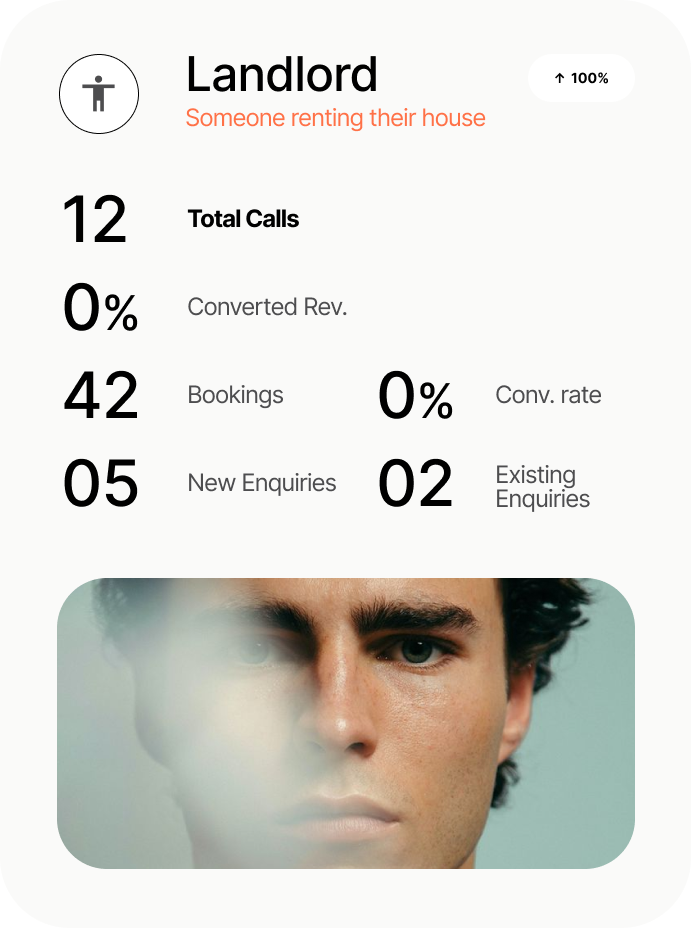
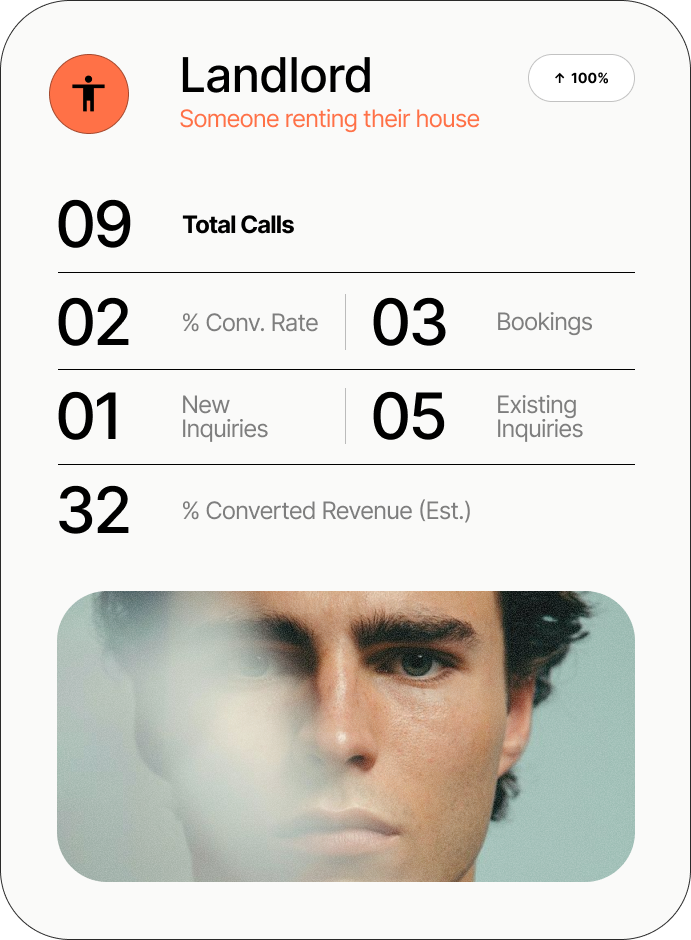
updates

diff --git a/index.html b/index.html
@@ -114,46 +114,40 @@
               <!-- LEFT column: row-1 (imgs 1,2,3) + row-2 (imgs 4,5) -->
               <div class="left">
 
-                <div class="row-1">
+                <div class="row-top">
                   <div class="sk-hero-1-db-img-single-border">
                     <div class="sk-hero-1-db-img-single img-1">
-                      <img src="images/call-gr.png" alt="Dashboard screenshot 1">
+                      <img src="images/call-big.png" alt="Dashboard screenshot 1">
                     </div>
                   </div>
+                </div>
 
+                <div class="row-1">
                   <div class="sk-hero-1-db-img-single-border">
                     <div class="sk-hero-1-db-img-single img-4">
-                      <img src="images/landlord.png" alt="Dashboard screenshot 4">
+                      <img src="images/landlord-new.png" alt="Dashboard screenshot 4">
                     </div>
                   </div>
-
                 </div>
+
                 <div class="row-2">
-
-                  <div class="sk-hero-1-db-img-single-border">
-                    <div class="sk-hero-1-db-img-single img-2">
-                      <img src="images/key.png" alt="Dashboard screenshot 2">
-                    </div>
-                  </div>
-
                   <div class="sk-hero-1-db-img-single-border">
                     <div class="sk-hero-1-db-img-single img-5">
-                      <img src="images/tenant.png" alt="Dashboard screenshot 5">
+                      <img src="images/tenant-new.png" alt="Dashboard screenshot 5">
                     </div>
                   </div>
-
                 </div>
 
 
                 <div class="row-3">
                   <div class="sk-hero-1-db-img-single-border">
                     <div class="sk-hero-1-db-img-single img-6">
-                      <img src="images/sentiment-gr.png" alt="Dashboard screenshot 6">
+                      <img src="images/sentiment-blue.png" alt="Dashboard screenshot 6">
                     </div>
                   </div>
                   <div class="sk-hero-1-db-img-single-border">
                     <div class="sk-hero-1-db-img-single img-7">
-                      <img src="images/caller.png" alt="Dashboard screenshot 7">
+                      <img src="images/caller-new.png" alt="Dashboard screenshot 7">
                     </div>
                   </div>
                 </div>

diff --git a/styles.css b/styles.css
@@ -413,20 +413,18 @@ h1 {
   grid-template-columns: 1fr 1fr 1fr;
   gap: 16px;
 }
+.sk-hero-1-db-img .row-top {
+  grid-column: 1/3;
+}
 .sk-hero-1-db-img .row-1 {
-  display: grid;
-  align-items: start;
-  gap: 16px;
 }
 .sk-hero-1-db-img .row-2 {
-  display: grid;
-  align-items: start;
-  gap: 16px;
 }
 .sk-hero-1-db-img .row-3 {
   display: grid;
-  align-items: start;
   gap: 16px;
+  grid-column-start: 3;
+  grid-row: 1/3;
 }
 
 .sk-hero-1-db-img-single-border {
